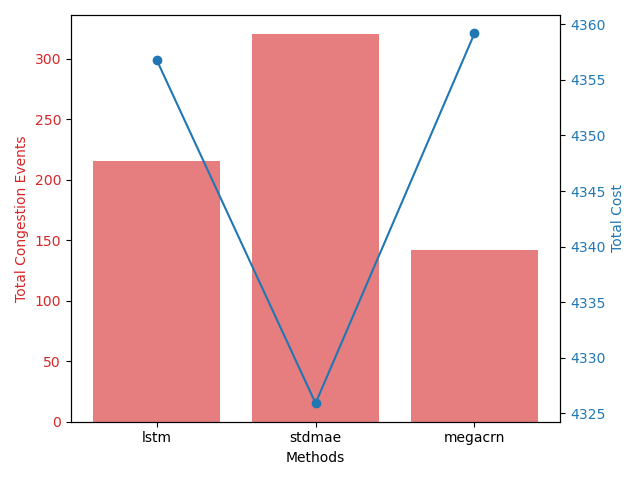
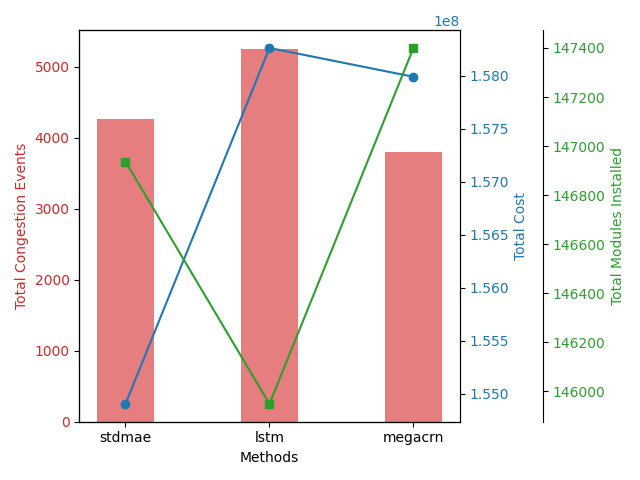
fix plot

diff --git a/cost.py b/cost.py
@@ -50,8 +50,11 @@ def calculate_congestion_and_cost(models_predictions, ground_truth, module_capac
 
 
 def calculate_network_congestion_and_cost(models_predictions, ground_truth, module_capacity, module_cost):
-    max_predicted_traffic = np.max(np.array(models_predictions), axis=0)
-    required_modules = np.ceil(max_predicted_traffic / module_capacity).astype(int)
+    # max_predicted_traffic = np.max(np.array(models_predictions), axis=0)
+    # required_modules = np.ceil(max_predicted_traffic / module_capacity).astype(int)
+    print(models_predictions.shape)
+    required_modules = np.ceil(models_predictions / module_capacity).astype(int)
+    print(required_modules.shape)
     # print('required_modules', required_modules.shape)
     installed_capacity = required_modules * module_capacity
     # print('installed_capacity', installed_capacity.shape)
@@ -149,7 +152,7 @@ def plot_multi_yscale(data):
     # Plot total congestion events on the first y-axis
     ax1.set_xlabel('Methods')
     ax1.set_ylabel('Total Congestion Events', color='tab:red')
-    ax1.bar(methods, total_congestion_events, color='tab:red', alpha=0.6, label='Total Congestion Events')
+    ax1.bar(methods, total_congestion_events, color='tab:red', alpha=0.6, label='Total Congestion Events', width=0.4)
     ax1.tick_params(axis='y', labelcolor='tab:red')
 
     # Create a second y-axis for total cost
@@ -159,12 +162,12 @@ def plot_multi_yscale(data):
     ax2.tick_params(axis='y', labelcolor='tab:blue')
 
     # Create a third y-axis for total modules installed
-    # ax3 = ax1.twinx()
-    # # Offset the third y-axis to avoid overlap with the second y-axis
-    # ax3.spines['right'].set_position(('outward', 60))
-    # ax3.set_ylabel('Total Modules Installed', color='tab:green')
-    # ax3.plot(methods, total_modules_installed, color='tab:green', marker='s', label='Total Modules Installed')
-    # ax3.tick_params(axis='y', labelcolor='tab:green')
+    ax3 = ax1.twinx()
+    # Offset the third y-axis to avoid overlap with the second y-axis
+    ax3.spines['right'].set_position(('outward', 60))
+    ax3.set_ylabel('Total Modules Installed', color='tab:green')
+    ax3.plot(methods, total_modules_installed, color='tab:green', marker='s', label='Total Modules Installed')
+    ax3.tick_params(axis='y', labelcolor='tab:green')
 
     # Show the plot
     # plt.title('Comparison of Methods from Dictionary Data')
@@ -182,8 +185,8 @@ def main():
     geant_cost = np.array(geant)
     abilene_cost = np.array(abilene)
 
-    scale = 40000.0
-    # scale = 1.0
+    # scale = 40000.0
+    scale = 1.0
 
     module_capacity = 40000.0 / scale
     module_cost = {
@@ -195,27 +198,45 @@ def main():
     for dataset_name, models in data_dict.items():
         if dataset_name == 'abilene':
             step_index = 2
+            seq_len = 9501
+            timeoffset = 9500
         elif dataset_name == 'geant':
             step_index = 0
+            seq_len = 2101
+            timeoffset = 2100
 
         results_per_dataset = {}
         for model_name, model_predictions in models:
             if model_name == 'gt':
-                ground_truth = model_predictions[step_index]
+                ground_truth = model_predictions[step_index, -seq_len-10:-seq_len + timeoffset - 10]
 
         for model_name, model_predictions in models:
             if model_name in ['transformer', 'gt', 'arima', 'dcrnn']:
                 continue
+            
+
+            if model_name == 'stdmae':
+                time_series = model_predictions[step_index, -seq_len:-seq_len + timeoffset]
+            elif model_name == 'arima':
+                time_series = model_predictions[0, -seq_len:-seq_len + timeoffset]
+            else:
+                time_series = model_predictions[step_index, -seq_len-9:-seq_len + timeoffset-9]
+
             results_per_model = calculate_network_congestion_and_cost(
-                model_predictions[step_index], ground_truth, module_capacity, module_cost[dataset_name]
+                time_series, ground_truth, module_capacity, module_cost[dataset_name]
             )
+
+            #  results_per_model = calculate_network_congestion_and_cost(
+            #     model_predictions[step_index], ground_truth, module_capacity, module_cost[dataset_name]
+            # )
             results_per_dataset[model_name] = results_per_model
             # break
         results_dict[dataset_name] = results_per_dataset
 
     pprint.pprint(results_dict)
-    plot(results_dict, scale)
+    # plot(results_dict, scale)
     plot_multi_yscale(results_dict['geant'])
+    # plot_multi_yscale(results_dict['abilene'])
 
 
 
